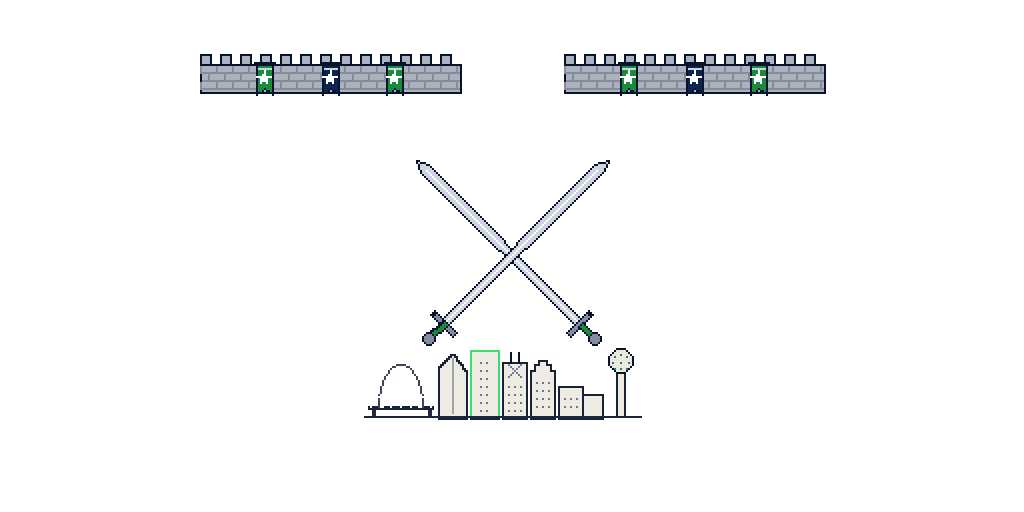
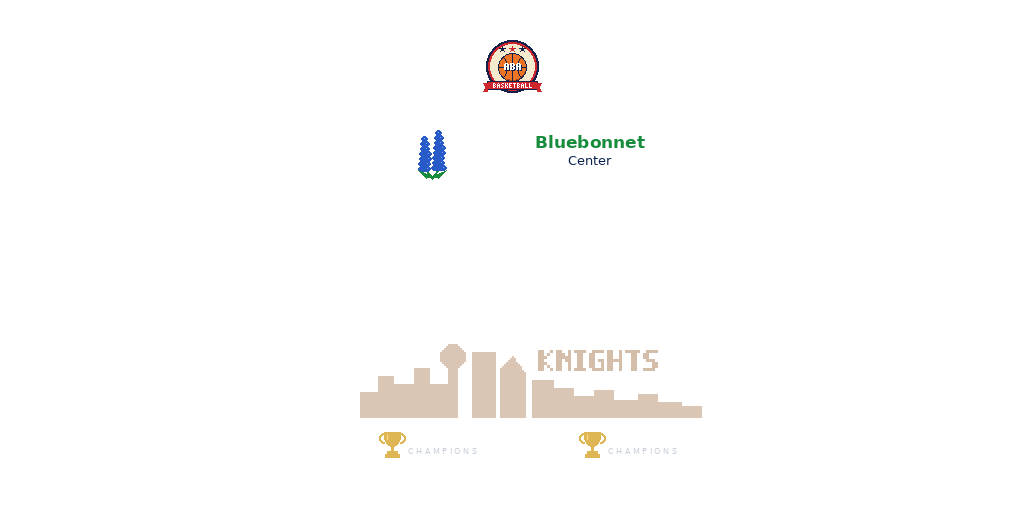
Redesign the Dallas Knights court after a classic Dallas concept floor
A faint stained skyline with a stained KNIGHTS wordmark above it, a
fictional sponsor (Bluebonnet Center) split across the top of the floor
and checked clear of the three-point arcs, the ABA badge at the
scorer's table, and 2035 and 2045 championship trophies on the near
apron. Move the small ABA badge into league_badge.py so the Sabers and
Knights courts share it; the Sabers overlay renders unchanged.

Claude-Session: https://claude.ai/code/session_019xdidrNboBfdBqy3KgEpk9

diff --git a/hoopland/make_knights_overlay.py b/hoopland/make_knights_overlay.py
@@ -1,119 +1,117 @@
-"""Generate the Dallas Knights court overlay for Hoop Land (1024x512 transparent PNG)."""
+"""Generate the Dallas Knights court overlay for Hoop Land (1024x512 transparent PNG).
+
+Modeled on a classic Dallas concept floor: a faint stained skyline with a
+stained KNIGHTS wordmark above it, a fictional sponsor ("Bluebonnet
+Center") split across the top of the floor clear of the three-point arcs,
+the ABA badge at the scorer's table, and two championship trophies on the
+near apron.
+"""
 from court_template import COURT
-from PIL import Image, ImageDraw, ImageFilter
-import math, os
+from league_badge import mini_league_badge
+from PIL import Image, ImageDraw, ImageFont
+import os
 
 W, H = 1024, 512
 LW, LH = W // 2, H // 2  # pixel-art layer, upscaled 2x
+STAIN = (164, 116, 74)
 NAVY = (12, 36, 80)
-INK = (8, 20, 46)
 GREEN = (22, 140, 60)
-NEON = (60, 220, 110)
-SILVER = (206, 212, 222)
-STEEL = (130, 140, 156)
-STONE = (168, 174, 186)
-STONE_DARK = (116, 122, 138)
+BLUE = (40, 90, 200)
+GOLD = (222, 182, 84)
+GOLD_LIGHT = (250, 222, 140)
+SILVER = (200, 206, 216)
 WHITE = (255, 255, 255)
-CREAM = (236, 232, 222)
 HERE = os.path.dirname(os.path.abspath(__file__))
 LEFT, TOP, RIGHT, BOTTOM = (v // 2 for v in COURT)   # court edges on the 2x pixel grid
-CX, CY = (LEFT + RIGHT) // 2, (TOP + BOTTOM) // 2
-SCORER = (234, 278)                                   # scorer's table gap on the far apron
+CX = (COURT[0] + COURT[2]) / 2
+SANS = "/usr/share/fonts/truetype/dejavu/DejaVuSans-Bold.ttf"
+SANS_LIGHT = "/usr/share/fonts/truetype/dejavu/DejaVuSans.ttf"
 
-img = Image.new("RGBA", (LW, LH), (0, 0, 0, 0))
-d = ImageDraw.Draw(img)
-
-def star(cx, cy, r, col):
-    pts = []
-    for k in range(10):
-        rr = r if k % 2 == 0 else r * 0.45
-        a = math.radians(-90 + k * 36)
-        pts.append((cx + rr * math.cos(a), cy + rr * math.sin(a)))
-    d.polygon(pts, fill=col)
-
-# ---------- castle wall with Lone Star banners on the far apron ----------
-WALL_TOP, WALL_BOT = TOP - 16, TOP - 2
-for x0, x1 in ((LEFT + 4, SCORER[0] - 4), (SCORER[1] + 4, RIGHT - 4)):
-    d.rectangle([x0, WALL_TOP, x1, WALL_BOT], fill=STONE + (245,), outline=INK + (255,))
-    for x in range(x0, x1 - 4, 10):                       # merlons
-        d.rectangle([x, WALL_TOP - 5, x + 5, WALL_TOP], fill=STONE + (245,), outline=INK + (255,))
-    for r, y in enumerate(range(WALL_TOP + 4, WALL_BOT, 4)):   # brick courses
-        d.line([(x0 + 1, y), (x1 - 1, y)], fill=STONE_DARK + (220,))
-        for x in range(x0 + (4 if r % 2 else 0), x1, 8):
-            d.line([(x, y - 3), (x, y)], fill=STONE_DARK + (220,))
-    span = x1 - x0
-    for k, bx in enumerate((x0 + span // 4, x0 + span // 2, x0 + 3 * span // 4)):   # banners
-        col = GREEN if k % 2 == 0 else NAVY
-        d.rectangle([bx - 5, WALL_TOP - 1, bx + 5, WALL_TOP], fill=INK + (255,))     # pole
-        d.polygon([(bx - 4, WALL_TOP), (bx + 4, WALL_TOP), (bx + 4, WALL_BOT + 1), (bx, WALL_BOT - 2), (bx - 4, WALL_BOT + 1)],
-                  fill=col + (255,), outline=INK + (255,))
-        d.line([(bx - 3, WALL_TOP + 2), (bx + 3, WALL_TOP + 2)], fill=SILVER + (255,))
-        star(bx, WALL_TOP + 7, 3.2, WHITE + (255,))
-
-# ---------- crossed swords behind the logo ----------
-def sword(sgn):
-    tip = (CX - sgn * 48, CY - 48)
-    guard = (CX + sgn * 34, CY + 34)
-    ux, uy = (guard[0] - tip[0]) / 116, (guard[1] - tip[1]) / 116   # unit vector tip -> hilt
-    px, py = -uy, ux                                                  # perpendicular
-    blade = [(tip[0], tip[1]), (tip[0] + ux * 6 + px * 2.5, tip[1] + uy * 6 + py * 2.5),
-             (guard[0] + px * 2.5, guard[1] + py * 2.5), (guard[0] - px * 2.5, guard[1] - py * 2.5),
-             (tip[0] + ux * 6 - px * 2.5, tip[1] + uy * 6 - py * 2.5)]
-    d.polygon(blade, fill=SILVER + (250,), outline=INK + (255,))
-    d.line([(tip[0] + ux * 8, tip[1] + uy * 8), (guard[0] - ux * 2, guard[1] - uy * 2)], fill=WHITE + (230,))   # fuller
-    d.line([(guard[0] + px * 8, guard[1] + py * 8), (guard[0] - px * 8, guard[1] - py * 8)], fill=INK + (255,), width=4)
-    d.line([(guard[0] + px * 7, guard[1] + py * 7), (guard[0] - px * 7, guard[1] - py * 7)], fill=STEEL + (255,), width=2)
-    grip_end = (guard[0] + ux * 10, guard[1] + uy * 10)
-    d.line([guard, grip_end], fill=INK + (255,), width=4)
-    d.line([guard, grip_end], fill=GREEN + (255,), width=2)
-    d.ellipse([grip_end[0] - 3, grip_end[1] - 3, grip_end[0] + 3, grip_end[1] + 3], fill=STEEL + (255,), outline=INK + (255,))
-sword(1)
-sword(-1)
-
-# ---------- Dallas skyline along the near sideline ----------
+# ---------- faint Dallas skyline stained into the floor (2x pixel grid) ----------
 BASE = BOTTOM
-mask = Image.new("L", (LW, LH), 0)
-m = ImageDraw.Draw(mask)
-m.polygon([(220, BASE), (220, BASE - 24), (226, BASE - 30), (232, BASE - 22), (232, BASE)], fill=255)   # Fountain Place
-m.rectangle([236, BASE - 32, 248, BASE], fill=255)                                                     # Bank of America Plaza
-m.rectangle([252, BASE - 26, 262, BASE], fill=255)                                                     # Renaissance Tower
-m.rectangle([266, BASE - 22, 276, BASE], fill=255)                                                     # Comerica Bank Tower
-m.rectangle([268, BASE - 25, 274, BASE - 22], fill=255)
-m.rectangle([270, BASE - 27, 272, BASE - 25], fill=255)
-m.rectangle([280, BASE - 14, 290, BASE], fill=255)
-m.rectangle([292, BASE - 10, 300, BASE], fill=255)
-sky = Image.new("RGBA", (LW, LH), (0, 0, 0, 0))
-sky.paste(CREAM + (225,), (0, 0), mask)
-edge = Image.composite(Image.new("L", mask.size, 0), mask.filter(ImageFilter.MaxFilter(3)), mask)
-sky.paste(INK + (240,), (0, 0), edge)
-img.alpha_composite(sky)
+sky = Image.new("L", (LW, LH), 0)
+m = ImageDraw.Draw(sky)
+for x0, x1, h in ((180, 188, 12), (189, 196, 20), (197, 206, 16), (207, 214, 24),          # taller on the left
+                  (266, 276, 18), (277, 286, 14), (287, 296, 10), (297, 306, 13), (307, 318, 8), (319, 328, 11),
+                  (329, 340, 7), (341, 350, 5)):                                           # low on the right, under the wordmark
+    m.rectangle([x0, BASE - h, x1, BASE], fill=255)
+m.rectangle([224, BASE - 26, 228, BASE], fill=255)                                         # Reunion Tower stalk
+m.ellipse([220, BASE - 36, 232, BASE - 24], fill=255)                                      # and its ball
+m.rectangle([236, BASE - 32, 247, BASE], fill=255)                                         # Bank of America Plaza
+m.polygon([(250, BASE), (250, BASE - 24), (256, BASE - 30), (262, BASE - 22), (262, BASE)], fill=255)   # Fountain Place
+m.rectangle([214, BASE - 16, 223, BASE], fill=255)
+layer = Image.new("RGBA", (LW, LH), (0, 0, 0, 0))
+layer.paste(STAIN + (105,), (0, 0), sky)
+img = layer.resize((W, H), Image.NEAREST)
 d = ImageDraw.Draw(img)
-d.rectangle([235, BASE - 33, 249, BASE], outline=NEON + (255,))                         # BofA Plaza's green outline
-d.line([(226, BASE - 29), (226, BASE - 2)], fill=STEEL + (200,))                         # Fountain Place facet
-for x in (255, 259):                                                                     # Renaissance's antennas
-    d.line([(x, BASE - 32), (x, BASE - 27)], fill=INK + (255,))
-d.line([(254, BASE - 26), (260, BASE - 20)], fill=NAVY + (150,))                         # its X bracing
-d.line([(260, BASE - 26), (254, BASE - 20)], fill=NAVY + (150,))
-for x0, x1, h in ((238, 247, 30), (252, 262, 18), (266, 276, 20), (280, 290, 12)):
-    for wy in range(BASE - h + 3, BASE - 2, 4):
-        for wx in range(x0 + 2, x1 - 1, 3):
-            d.point((wx, wy), fill=NAVY + (160,))
-# Reunion Tower: stalk and the lit ball
-RX = 310
-d.rectangle([RX - 2, BASE - 24, RX + 2, BASE], fill=CREAM + (240,), outline=INK + (240,))
-d.ellipse([RX - 6, BASE - 34, RX + 6, BASE - 22], fill=CREAM + (250,), outline=INK + (255,))
-for gx, gy in ((-3, -30), (0, -31), (3, -30), (-4, -27), (0, -27), (4, -27), (-3, -24), (0, -24), (3, -24)):
-    d.point((RX + gx, BASE + gy), fill=GREEN + (255,))
-# Margaret Hunt Hill Bridge: single white arch with fanned cables
-DECK = BASE - 5
-d.rectangle([184, DECK, 216, DECK + 1], fill=INK + (240,))
-d.arc([190, DECK - 20, 210, DECK + 20], 180, 360, fill=WHITE + (255,), width=2)
-d.arc([189, DECK - 21, 211, DECK + 21], 180, 360, fill=INK + (200,), width=1)
-for k in range(-3, 4):
-    d.line([(200, DECK - 18), (200 + k * 5, DECK)], fill=WHITE + (200,))
-for px in (186, 214):
-    d.rectangle([px, DECK + 2, px + 1, BASE], fill=INK + (230,))
-d.line([(182, BASE), (320, BASE)], fill=INK + (235,))
 
-img.resize((W, H), Image.NEAREST).save(os.path.join(HERE, "dallas-knights-overlay.png"))
-print("saved")
+# ---------- stained KNIGHTS wordmark above the low end of the skyline ----------
+BLOCK = {
+    "K": ("##..#", "##.#.", "###..", "##...", "###..", "##.#.", "##..#"),
+    "N": ("##..#", "###.#", "#####", "##.##", "##..#", "##..#", "##..#"),
+    "I": ("####", ".##.", ".##.", ".##.", ".##.", ".##.", "####"),
+    "G": (".####", "##...", "##...", "##.##", "##..#", "##..#", ".####"),
+    "H": ("##..#", "##..#", "##..#", "#####", "##..#", "##..#", "##..#"),
+    "T": ("#####", "..##.", "..##.", "..##.", "..##.", "..##.", "..##."),
+    "S": (".####", "##...", "##...", ".###.", "...##", "...##", "####."),
+}
+WORD, P = "KNIGHTS", 3                                     # 3 output pixels per glyph pixel
+word_w = sum(len(BLOCK[ch][0]) * P + P for ch in WORD) - P
+x, y0 = 598 - word_w // 2, 350
+for ch in WORD:
+    for r, row in enumerate(BLOCK[ch]):
+        for c, px in enumerate(row):
+            if px == "#":
+                d.rectangle([x + c * P, y0 + r * P, x + c * P + P - 1, y0 + r * P + P - 1], fill=STAIN + (120,))
+    x += len(BLOCK[ch][0]) * P + P
+
+# ---------- Bluebonnet Center: fictional sponsor, split across the top of the floor ----------
+LIGHT_BLUE = (120, 160, 240)
+
+def bluebonnet(cx, top):
+    """A minimal bluebonnet pair: tapering spikes of blue florets with white tips, on broad green leaves."""
+    for sx, stop, rows in ((cx - 7, top + 6, 7), (cx + 7, top, 8)):   # a shorter and a taller spike
+        base = stop + rows * 5
+        d.line([(sx, base), (cx, top + 50)], fill=GREEN + (255,), width=2)
+        for k in range(rows):
+            y = base - k * 5
+            half = max(1, (rows - k) // 2 + 1)
+            for fx in range(-half, half + 1, 3):
+                d.ellipse([sx + fx - 3, y - 3, sx + fx + 3, y + 2], fill=BLUE + (255,))
+                d.point((sx + fx, y - 1), fill=LIGHT_BLUE + (255,))
+        d.ellipse([sx - 2, stop - 4, sx + 2, stop], fill=WHITE + (255,))
+    for sgn in (-1, 1):                                    # broad leaves at the base
+        d.polygon([(cx, top + 48), (cx + sgn * 14, top + 42), (cx + sgn * 6, top + 50)], fill=GREEN + (255,))
+    return (cx - 16, top - 4, cx + 16, top + 51)
+
+mark_box = bluebonnet(432, 128)
+name_font, sub_font = ImageFont.truetype(SANS, 17), ImageFont.truetype(SANS_LIGHT, 13)
+NAME_C = (590, 150)
+d.text((NAME_C[0], NAME_C[1] - 8), "Bluebonnet", font=name_font, fill=GREEN + (255,), anchor="mm")
+d.text((NAME_C[0], NAME_C[1] + 10), "Center", font=sub_font, fill=NAVY + (255,), anchor="mm")
+name_w = d.textlength("Bluebonnet", font=name_font)
+name_box = (NAME_C[0] - name_w / 2, NAME_C[1] - 18, NAME_C[0] + name_w / 2, NAME_C[1] + 18)
+
+# ---------- ABA badge at the scorer's table ----------
+img.alpha_composite(mini_league_badge(), (round(CX - 30), 36))
+
+# ---------- championship trophies on the near apron ----------
+def trophy(x, y):
+    """Minimal gold cup: bowl with handles, stem and a two-step base."""
+    d.arc([x - 13, y + 1, x - 3, y + 11], 90, 270, fill=GOLD + (255,), width=2)          # handles
+    d.arc([x + 3, y + 1, x + 13, y + 11], 270, 90, fill=GOLD + (255,), width=2)
+    d.chord([x - 8, y - 6, x + 8, y + 14], 0, 180, fill=GOLD + (255,))                    # bowl
+    d.rectangle([x - 8, y, x + 8, y + 4], fill=GOLD + (255,))
+    d.line([(x - 5, y + 2), (x - 5, y + 7)], fill=GOLD_LIGHT + (255,))                   # shine
+    d.rectangle([x - 1, y + 14, x + 1, y + 19], fill=GOLD + (255,))
+    d.rectangle([x - 5, y + 19, x + 5, y + 21], fill=GOLD + (255,))
+    d.rectangle([x - 7, y + 22, x + 7, y + 25], fill=GOLD + (255,))
+
+year_font, label_font = ImageFont.truetype(SANS, 16), ImageFont.truetype(SANS_LIGHT, 8)
+for year, gx in (("2035", CX - 120), ("2045", CX + 80)):
+    trophy(gx, 432)
+    d.text((gx + 16, 437), year, font=year_font, fill=WHITE + (255,), anchor="lm")
+    d.text((gx + 16, 451), "C H A M P I O N S", font=label_font, fill=SILVER + (255,), anchor="lm")
+
+img.save(os.path.join(HERE, "dallas-knights-overlay.png"))
+print("saved; sponsor boxes:", [tuple(round(v) for v in b) for b in (mark_box, name_box)])

diff --git a/hoopland/make_sabers_overlay.py b/hoopland/make_sabers_overlay.py
@@ -5,6 +5,7 @@ sidelines, the arena name in the near treeline, and small league logos
 by each paint.
 """
 from court_template import COURT
+from league_badge import mini_league_badge
 from PIL import Image, ImageDraw, ImageFont
 import os
 
@@ -45,52 +46,9 @@ treeline(BOTTOM + 13, ARENA_GAP)
 img = img.resize((W, H), Image.NEAREST)
 
 # ---------- small league logos by each paint ----------
-# Drawn pixel by pixel at full resolution rather than shrunk from the big league logo, so they stay sharp.
-NAVY, RED, CREAM, ORANGE, BALL_DARK = (18, 32, 74), (206, 38, 44), (246, 234, 206), (236, 116, 36), (180, 76, 22)
-BOLD = {"A": (".###.", "##.##", "##.##", "#####", "##.##", "##.##", "##.##"),
-        "B": ("####.", "##.##", "##.##", "####.", "##.##", "##.##", "####.")}
-TINY = {"B": ("##.", "#.#", "##.", "#.#", "##."), "A": (".#.", "#.#", "###", "#.#", "#.#"),
-        "S": (".##", "#..", ".#.", "..#", "##."), "K": ("#.#", "#.#", "##.", "#.#", "#.#"),
-        "E": ("###", "#..", "##.", "#..", "###"), "T": ("###", ".#.", ".#.", ".#.", ".#."),
-        "L": ("#..", "#..", "#..", "#..", "###")}
-
-def glyphs(draw, word, font, x, y, col):
-    for ch in word:
-        for r, row in enumerate(font[ch]):
-            for c, px in enumerate(row):
-                if px == "#":
-                    draw.point((x + c, y + r), fill=col + (255,))
-        x += len(font[ch][0]) + 1
-
-def mini_league_logo(cx, cy):
-    badge = Image.new("RGBA", (60, 60), (0, 0, 0, 0))
-    b = ImageDraw.Draw(badge)
-    c = 30
-    b.ellipse([c - 26, c - 26, c + 26, c + 26], fill=NAVY + (255,))
-    b.ellipse([c - 24, c - 24, c + 24, c + 24], fill=RED + (255,))
-    b.ellipse([c - 22, c - 22, c + 22, c + 22], fill=CREAM + (255,))
-    for sx in (c - 10, c, c + 10):                        # three stars over the ball
-        b.polygon([(sx, c - 20), (sx + 1, c - 18), (sx + 3, c - 18), (sx + 1, c - 17), (sx + 2, c - 15),
-                   (sx, c - 16), (sx - 2, c - 15), (sx - 1, c - 17), (sx - 3, c - 18), (sx - 1, c - 18)],
-                  fill=(RED if sx == c else NAVY) + (255,))
-    b.ellipse([c - 14, c - 13, c + 14, c + 15], fill=NAVY + (255,))   # the ball
-    b.ellipse([c - 13, c - 12, c + 13, c + 14], fill=ORANGE + (255,))
-    b.pieslice([c - 13, c - 12, c + 13, c + 14], 20, 110, fill=BALL_DARK + (255,))
-    b.ellipse([c - 11, c - 10, c + 12, c + 13], fill=ORANGE + (255,))
-    b.line([(c, c - 12), (c, c + 14)], fill=NAVY + (255,))
-    b.line([(c - 13, c + 1), (c + 13, c + 1)], fill=NAVY + (255,))
-    b.arc([c - 22, c - 11, c - 5, c + 13], -55, 55, fill=NAVY + (255,))
-    b.arc([c + 5, c - 11, c + 22, c + 13], 125, 235, fill=NAVY + (255,))
-    glyphs(b, "ABA", BOLD, c - 8 + 1, c - 3 + 1, NAVY)    # wordmark with a navy drop shadow
-    glyphs(b, "ABA", BOLD, c - 8, c - 3, (255, 255, 255))
-    b.rectangle([c - 25, c + 15, c + 25, c + 23], fill=RED + (255,), outline=NAVY + (255,))   # ribbon
-    b.polygon([(c - 29, c + 17), (c - 25, c + 17), (c - 25, c + 25), (c - 29, c + 25), (c - 27, c + 21)], fill=RED + (255,))
-    b.polygon([(c + 29, c + 17), (c + 25, c + 17), (c + 25, c + 25), (c + 29, c + 25), (c + 27, c + 21)], fill=RED + (255,))
-    glyphs(b, "BASKETBALL", TINY, c - 19, c + 17, (255, 255, 255))
-    img.alpha_composite(badge, (round(cx - 30), round(cy - 30)))
-
 for fx, fy in ((0.9, 0.22), (0.1, 0.84)):
-    mini_league_logo(COURT[0] + fx * (COURT[2] - COURT[0]), COURT[1] + fy * (COURT[3] - COURT[1]))
+    cx, cy = COURT[0] + fx * (COURT[2] - COURT[0]), COURT[1] + fy * (COURT[3] - COURT[1])
+    img.alpha_composite(mini_league_badge(), (round(cx - 30), round(cy - 30)))
 
 # ---------- arena name in the near treeline ----------
 d = ImageDraw.Draw(img)

diff --git a/hoopland/league_badge.py b/hoopland/league_badge.py
@@ -1,0 +1,50 @@
+"""A small ABA league badge for court overlays.
+
+Drawn pixel by pixel at full resolution rather than shrunk from the big
+league logo, so the stars, ball, wordmark and ribbon stay sharp.
+"""
+from PIL import Image, ImageDraw
+
+NAVY, RED, CREAM, ORANGE, BALL_DARK = (18, 32, 74), (206, 38, 44), (246, 234, 206), (236, 116, 36), (180, 76, 22)
+BOLD = {"A": (".###.", "##.##", "##.##", "#####", "##.##", "##.##", "##.##"),
+        "B": ("####.", "##.##", "##.##", "####.", "##.##", "##.##", "####.")}
+TINY = {"B": ("##.", "#.#", "##.", "#.#", "##."), "A": (".#.", "#.#", "###", "#.#", "#.#"),
+        "S": (".##", "#..", ".#.", "..#", "##."), "K": ("#.#", "#.#", "##.", "#.#", "#.#"),
+        "E": ("###", "#..", "##.", "#..", "###"), "T": ("###", ".#.", ".#.", ".#.", ".#."),
+        "L": ("#..", "#..", "#..", "#..", "###")}
+
+def glyphs(draw, word, font, x, y, col):
+    for ch in word:
+        for r, row in enumerate(font[ch]):
+            for c, px in enumerate(row):
+                if px == "#":
+                    draw.point((x + c, y + r), fill=col + (255,))
+        x += len(font[ch][0]) + 1
+
+def mini_league_badge():
+    """The ABA league badge drawn pixel by pixel at 60x60 for placing on a court overlay."""
+    badge = Image.new("RGBA", (60, 60), (0, 0, 0, 0))
+    b = ImageDraw.Draw(badge)
+    c = 30
+    b.ellipse([c - 26, c - 26, c + 26, c + 26], fill=NAVY + (255,))
+    b.ellipse([c - 24, c - 24, c + 24, c + 24], fill=RED + (255,))
+    b.ellipse([c - 22, c - 22, c + 22, c + 22], fill=CREAM + (255,))
+    for sx in (c - 10, c, c + 10):                        # three stars over the ball
+        b.polygon([(sx, c - 20), (sx + 1, c - 18), (sx + 3, c - 18), (sx + 1, c - 17), (sx + 2, c - 15),
+                   (sx, c - 16), (sx - 2, c - 15), (sx - 1, c - 17), (sx - 3, c - 18), (sx - 1, c - 18)],
+                  fill=(RED if sx == c else NAVY) + (255,))
+    b.ellipse([c - 14, c - 13, c + 14, c + 15], fill=NAVY + (255,))   # the ball
+    b.ellipse([c - 13, c - 12, c + 13, c + 14], fill=ORANGE + (255,))
+    b.pieslice([c - 13, c - 12, c + 13, c + 14], 20, 110, fill=BALL_DARK + (255,))
+    b.ellipse([c - 11, c - 10, c + 12, c + 13], fill=ORANGE + (255,))
+    b.line([(c, c - 12), (c, c + 14)], fill=NAVY + (255,))
+    b.line([(c - 13, c + 1), (c + 13, c + 1)], fill=NAVY + (255,))
+    b.arc([c - 22, c - 11, c - 5, c + 13], -55, 55, fill=NAVY + (255,))
+    b.arc([c + 5, c - 11, c + 22, c + 13], 125, 235, fill=NAVY + (255,))
+    glyphs(b, "ABA", BOLD, c - 8 + 1, c - 3 + 1, NAVY)    # wordmark with a navy drop shadow
+    glyphs(b, "ABA", BOLD, c - 8, c - 3, (255, 255, 255))
+    b.rectangle([c - 25, c + 15, c + 25, c + 23], fill=RED + (255,), outline=NAVY + (255,))   # ribbon
+    b.polygon([(c - 29, c + 17), (c - 25, c + 17), (c - 25, c + 25), (c - 29, c + 25), (c - 27, c + 21)], fill=RED + (255,))
+    b.polygon([(c + 29, c + 17), (c + 25, c + 17), (c + 25, c + 25), (c + 29, c + 25), (c + 27, c + 21)], fill=RED + (255,))
+    glyphs(b, "BASKETBALL", TINY, c - 19, c + 17, (255, 255, 255))
+    return badge
